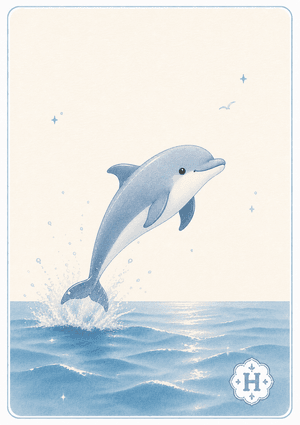
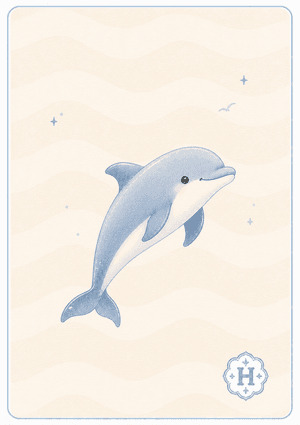
복숭아 카드 스킨 추가 + 돌고래 이미지 교체 + 전체 카드 체험 이벤트
- 복숭아: 싱글 15만점 / 멀티 ₩200만 조건으로 신규 추가
- 돌고래: 새 시안 이미지로 교체
- 오늘 자정(2026-08-11 00:00 KST)까지 조건 미달이어도 모든 카드 뒷면
  선택/체험 가능, 지나면 자동으로 기존 잠금 상태로 복귀

diff --git a/public/js/main.js b/public/js/main.js
@@ -100,13 +100,16 @@ function updateMainScreen() {
   updateSkinBanner();
 }
 
-// 카드 뒷면 스킨 배너 — 배포일로부터 3일간만 노출(고정 배포일 기준, 이벤트 기능과 동일 패턴)
-const CARD_SKIN_BANNER_LAUNCH = new Date('2026-07-23T00:00:00+09:00').getTime();
+// 카드 뒷면 스킨 배너 — 오늘(2026-08-10) 자정까지 "전체 카드 체험" 안내로 노출
+// (game/cardSkins.js의 TRIAL_ALL_SKINS_END와 동일한 시각, 클라이언트는 표시용으로 중복 정의)
+const CARD_SKIN_TRIAL_END = new Date('2026-08-11T00:00:00+09:00').getTime();
+function isSkinTrialActive() {
+  return Date.now() < CARD_SKIN_TRIAL_END;
+}
 function updateSkinBanner() {
   const banner = document.getElementById('skin-banner');
   if (!banner) return;
-  const withinWindow = Date.now() - CARD_SKIN_BANNER_LAUNCH < 3 * 86400 * 1000;
-  banner.style.display = withinWindow ? '' : 'none';
+  banner.style.display = isSkinTrialActive() ? '' : 'none';
 }
 document.getElementById('skin-banner')?.addEventListener('click', () => {
   document.getElementById('btn-settings').click();
@@ -401,14 +404,16 @@ const CARD_SKINS = {
   sea: { free: false, singleReq: 10000, multiReq: 1100000, label: '바다' },
   watermelon: { free: false, singleReq: 50000, multiReq: 1300000, label: '수박' },
   dolphin: { free: false, singleReq: 100000, multiReq: 1500000, label: '돌고래' },
+  peach: { free: false, singleReq: 150000, multiReq: 2000000, label: '복숭아' },
 };
-const SKIN_ORDER = ['basic', 'wine', 'sea', 'watermelon', 'dolphin'];
+const SKIN_ORDER = ['basic', 'wine', 'sea', 'watermelon', 'dolphin', 'peach'];
 const SKIN_THUMB_STYLE = {
   basic: 'background: linear-gradient(135deg, #1a3a6b 0%, #2d5fa6 100%);',
   wine: 'background: linear-gradient(135deg, #6b1a35 0%, #a62d5f 100%);',
   sea: "background-image:url('img/card-sea.png');background-size:cover;background-position:center;",
   watermelon: "background-image:url('img/card-watermelon.png');background-size:cover;background-position:center;",
   dolphin: "background-image:url('img/card-dolphin.png');background-size:cover;background-position:center;",
+  peach: "background-image:url('img/card-peach.png');background-size:cover;background-position:center;",
 };
 
 function renderSkinGrid() {
@@ -417,19 +422,29 @@ function renderSkinGrid() {
   const peakSingle = me.peakSinglePoints ?? me.singlePoints ?? 0;
   const peakMulti = me.peakMultiBalance ?? me.multiBalance ?? 0;
   const selected = me.selectedCardSkin || 'basic';
+  const trialActive = isSkinTrialActive();
+
+  const trialNotice = document.getElementById('skin-trial-notice');
+  if (trialNotice) trialNotice.style.display = trialActive ? '' : 'none';
 
   grid.innerHTML = SKIN_ORDER.map(key => {
     const cfg = CARD_SKINS[key];
     const singleMet = cfg.free || peakSingle >= (cfg.singleReq || 0);
     const multiMet = cfg.free || peakMulti >= (cfg.multiReq || 0);
-    const selectable = cfg.free || (singleMet && multiMet);
-    const lockHtml = selectable ? '' : '<span class="lock-badge">🔒</span>';
-    const statusHtml = cfg.free
-      ? `<div class="skin-status ok">${key === selected ? '사용 중' : '사용 가능'}</div>`
-      : `<div class="skin-status">
+    const trulyMet = cfg.free || (singleMet && multiMet);
+    const selectable = trulyMet || trialActive;
+    const lockHtml = trulyMet ? '' : (trialActive ? '<span class="lock-badge trial-badge">🎁</span>' : '<span class="lock-badge">🔒</span>');
+    let statusHtml;
+    if (cfg.free) {
+      statusHtml = `<div class="skin-status ok">${key === selected ? '사용 중' : '사용 가능'}</div>`;
+    } else if (!trulyMet && trialActive) {
+      statusHtml = `<div class="skin-status ok">체험 가능(오늘 자정까지)</div>`;
+    } else {
+      statusHtml = `<div class="skin-status">
           <span class="cond-line ${singleMet ? 'met' : 'unmet'}">${singleMet ? '✓' : ''} 싱글 ${cfg.singleReq.toLocaleString()}P${singleMet ? '' : ' 필요'}</span>
           <span class="cond-line ${multiMet ? 'met' : 'unmet'}">${multiMet ? '✓' : ''} 멀티 ₩${cfg.multiReq.toLocaleString()}${multiMet ? '' : ' 필요'}</span>
         </div>`;
+    }
     return `<div class="skin-item">
       <div class="skin-thumb${key === selected ? ' selected' : ''}" data-skin="${key}" style="${SKIN_THUMB_STYLE[key]}">${lockHtml}</div>
       <div class="skin-name">${cfg.label}</div>
@@ -443,7 +458,7 @@ function renderSkinGrid() {
       const cfg = CARD_SKINS[key];
       const peakSingle2 = me.peakSinglePoints ?? me.singlePoints ?? 0;
       const peakMulti2 = me.peakMultiBalance ?? me.multiBalance ?? 0;
-      const selectable = cfg.free || (peakSingle2 >= (cfg.singleReq || 0) && peakMulti2 >= (cfg.multiReq || 0));
+      const selectable = cfg.free || isSkinTrialActive() || (peakSingle2 >= (cfg.singleReq || 0) && peakMulti2 >= (cfg.multiReq || 0));
       const msg = document.getElementById('skin-msg');
       if (!selectable) {
         msg.style.color = '#e08f8f';

diff --git a/public/css/style.css b/public/css/style.css
@@ -199,6 +199,7 @@ input[type=text]::placeholder, input[type=password]::placeholder { color: #888; 
 .skin-thumb { width: 100%; aspect-ratio: 5/7; border-radius: 8px; background-size: cover; background-position: center; border: 2px solid transparent; box-shadow: 0 3px 8px rgba(0,0,0,0.35); position: relative; cursor: pointer; }
 .skin-thumb.selected { border-color: var(--double); box-shadow: 0 0 0 2px rgba(255,210,74,0.3), 0 3px 10px rgba(0,0,0,0.4); }
 .skin-thumb .lock-badge { position: absolute; top: 4px; left: 4px; width: 18px; height: 18px; border-radius: 50%; background: rgba(0,0,0,0.65); display: flex; align-items: center; justify-content: center; font-size: 10px; box-shadow: 0 2px 4px rgba(0,0,0,0.5); }
+.skin-thumb .lock-badge.trial-badge { background: rgba(255,210,74,0.85); }
 .skin-name { font-size: 10.5px; font-weight: 800; color: #fff; }
 .skin-status { font-size: 8.5px; color: var(--text-dim); text-align: center; line-height: 1.4; }
 .skin-status.ok { color: #7fd88f; }
@@ -206,6 +207,7 @@ input[type=text]::placeholder, input[type=password]::placeholder { color: #888; 
 .skin-status .cond-line.met { color: #7fd88f; }
 .skin-status .cond-line.unmet { color: #e08f8f; }
 #skin-msg { font-size: 10.5px; color: var(--double); text-align: center; margin-top: 10px; min-height: 14px; }
+#skin-trial-notice { font-size: 10.5px; font-weight: 700; color: var(--double); text-align: center; margin-bottom: 10px; }
 
 /* ── 메인화면 카드 스킨 배너 ─────────────────────────────────────────── */
 .skin-banner {
@@ -214,7 +216,7 @@ input[type=text]::placeholder, input[type=password]::placeholder { color: #888; 
   border: 1px solid rgba(255,210,74,0.4);
   display: flex; align-items: center; gap: 10px; cursor: pointer;
 }
-.skin-banner .sb-thumb { width: 34px; height: 46px; border-radius: 5px; flex-shrink: 0; background-size: cover; background-position: center; box-shadow: 0 3px 8px rgba(0,0,0,0.4); background-image: url('../img/card-sea.png'); }
+.skin-banner .sb-thumb { width: 34px; height: 46px; border-radius: 5px; flex-shrink: 0; background-size: cover; background-position: center; box-shadow: 0 3px 8px rgba(0,0,0,0.4); background-image: url('../img/card-peach.png'); }
 .skin-banner .sb-text { flex: 1; }
 .skin-banner .sb-title { font-size: 12px; font-weight: 800; color: #fff; }
 .skin-banner .sb-sub { font-size: 10px; color: var(--double); margin-top: 2px; }
@@ -616,6 +618,7 @@ body.skin-wine .card.card-back { background: linear-gradient(135deg, #6b1a35 0%,
 body.skin-sea .card.card-back { background-image: url('../img/card-sea.png'); background-size: cover; background-position: center; border-color: #6ab6f2; }
 body.skin-watermelon .card.card-back { background-image: url('../img/card-watermelon.png'); background-size: cover; background-position: center; border-color: #7cb96f; }
 body.skin-dolphin .card.card-back { background-image: url('../img/card-dolphin.png'); background-size: cover; background-position: center; border-color: #b9d4ea; }
+body.skin-peach .card.card-back { background-image: url('../img/card-peach.png'); background-size: cover; background-position: center; border-color: #f0a888; }
 .card.small { width: clamp(32px, 3.5vw, 52px); height: clamp(46px, 5vw, 72px); font-size: clamp(9px, 1vw, 13px); }
 .card.tiny { width: clamp(24px, 2.5vw, 38px); height: clamp(34px, 3.5vw, 54px); font-size: clamp(8px, 0.8vw, 11px); }
 

diff --git a/game/cardSkins.js b/game/cardSkins.js
@@ -7,13 +7,22 @@ const CARD_SKINS = {
   sea: { free: false, singleReq: 10000, multiReq: 1100000, label: '바다' },
   watermelon: { free: false, singleReq: 50000, multiReq: 1300000, label: '수박' },
   dolphin: { free: false, singleReq: 100000, multiReq: 1500000, label: '돌고래' },
+  peach: { free: false, singleReq: 150000, multiReq: 2000000, label: '복숭아' },
 };
+
+// 임시 전체 체험 이벤트 — 이 시각까지는 조건 미달이어도 모든 스킨을 선택/사용 가능.
+// 지나면 이 파일의 두 함수가 다시 조건을 그대로 체크하므로, 체험 중 조건 미달 스킨을
+// 골랐던 사용자는 별도 되돌리기 로직 없이 자동으로 기본색 폴백으로 돌아간다.
+const TRIAL_ALL_SKINS_END = new Date('2026-08-11T00:00:00+09:00').getTime();
+function isTrialActive() {
+  return Date.now() < TRIAL_ALL_SKINS_END;
+}
 
 // 이 스킨을 "메인 스킨"으로 선택 가능한지 — 무료거나, 싱글/멀티 조건을 둘 다 채워야 선택 가능
 function isSkinSelectable(skinKey, peakSinglePoints, peakMultiBalance) {
   const cfg = CARD_SKINS[skinKey];
   if (!cfg) return false;
-  if (cfg.free) return true;
+  if (cfg.free || isTrialActive()) return true;
   return peakSinglePoints >= cfg.singleReq && peakMultiBalance >= cfg.multiReq;
 }
 
@@ -24,8 +33,8 @@ function isSkinSelectable(skinKey, peakSinglePoints, peakMultiBalance) {
 function isSkinUsableInMode(skinKey, mode, peakSinglePoints, peakMultiBalance) {
   const cfg = CARD_SKINS[skinKey];
   if (!cfg) return false;
-  if (cfg.free) return true;
+  if (cfg.free || isTrialActive()) return true;
   return mode === 'multi' ? peakMultiBalance >= cfg.multiReq : peakSinglePoints >= cfg.singleReq;
 }
 
-module.exports = { CARD_SKINS, isSkinSelectable, isSkinUsableInMode };
+module.exports = { CARD_SKINS, isSkinSelectable, isSkinUsableInMode, isTrialActive, TRIAL_ALL_SKINS_END };

diff --git a/public/js/game.js b/public/js/game.js
@@ -106,13 +106,17 @@ const CARD_SKINS = {
   sea: { free: false, singleReq: 10000, multiReq: 1100000 },
   watermelon: { free: false, singleReq: 50000, multiReq: 1300000 },
   dolphin: { free: false, singleReq: 100000, multiReq: 1500000 },
+  peach: { free: false, singleReq: 150000, multiReq: 2000000 },
 };
+// 오늘(2026-08-10) 자정까지 전체 카드 체험 이벤트 — game/cardSkins.js의
+// TRIAL_ALL_SKINS_END와 동일한 시각, 클라이언트는 표시용으로 중복 정의.
+const CARD_SKIN_TRIAL_END = new Date('2026-08-11T00:00:00+09:00').getTime();
 function applyCardSkin({ selectedCardSkin, peakSinglePoints, peakMultiBalance }) {
   const cfg = CARD_SKINS[selectedCardSkin];
-  const usable = cfg && (cfg.free ||
+  const usable = cfg && (cfg.free || Date.now() < CARD_SKIN_TRIAL_END ||
     (gameMode === 'multi' ? peakMultiBalance >= cfg.multiReq : peakSinglePoints >= cfg.singleReq));
   const effective = usable ? selectedCardSkin : 'basic';
-  document.body.classList.remove('skin-wine', 'skin-sea', 'skin-watermelon', 'skin-dolphin');
+  document.body.classList.remove('skin-wine', 'skin-sea', 'skin-watermelon', 'skin-dolphin', 'skin-peach');
   if (effective !== 'basic') document.body.classList.add('skin-' + effective);
 }
 

diff --git a/public/index.html b/public/index.html
@@ -55,8 +55,8 @@
       <div id="skin-banner" class="skin-banner" style="display:none">
         <div class="sb-thumb"></div>
         <div class="sb-text">
-          <div class="sb-title">🎴 설정에서 카드 뒷면 디자인을 골라보세요</div>
-          <div class="sb-sub">새로운 카드 스킨이 도착했어요!</div>
+          <div class="sb-title">🎁 오늘 자정까지 모든 카드 뒷면 무료 체험!</div>
+          <div class="sb-sub">지금 설정에서 원하는 스킨을 골라보세요</div>
         </div>
         <div class="sb-go">›</div>
       </div>
@@ -177,6 +177,7 @@
 
         <div class="v2-card highlight">
           <div class="card-head"><span class="ic">🎴</span><span class="tt">카드 뒷면</span></div>
+          <div id="skin-trial-notice" style="display:none">🎁 오늘 자정까지 모든 카드 뒷면을 조건 없이 체험할 수 있어요</div>
           <div id="skin-grid" class="skin-grid"></div>
           <div id="skin-msg"></div>
         </div>
